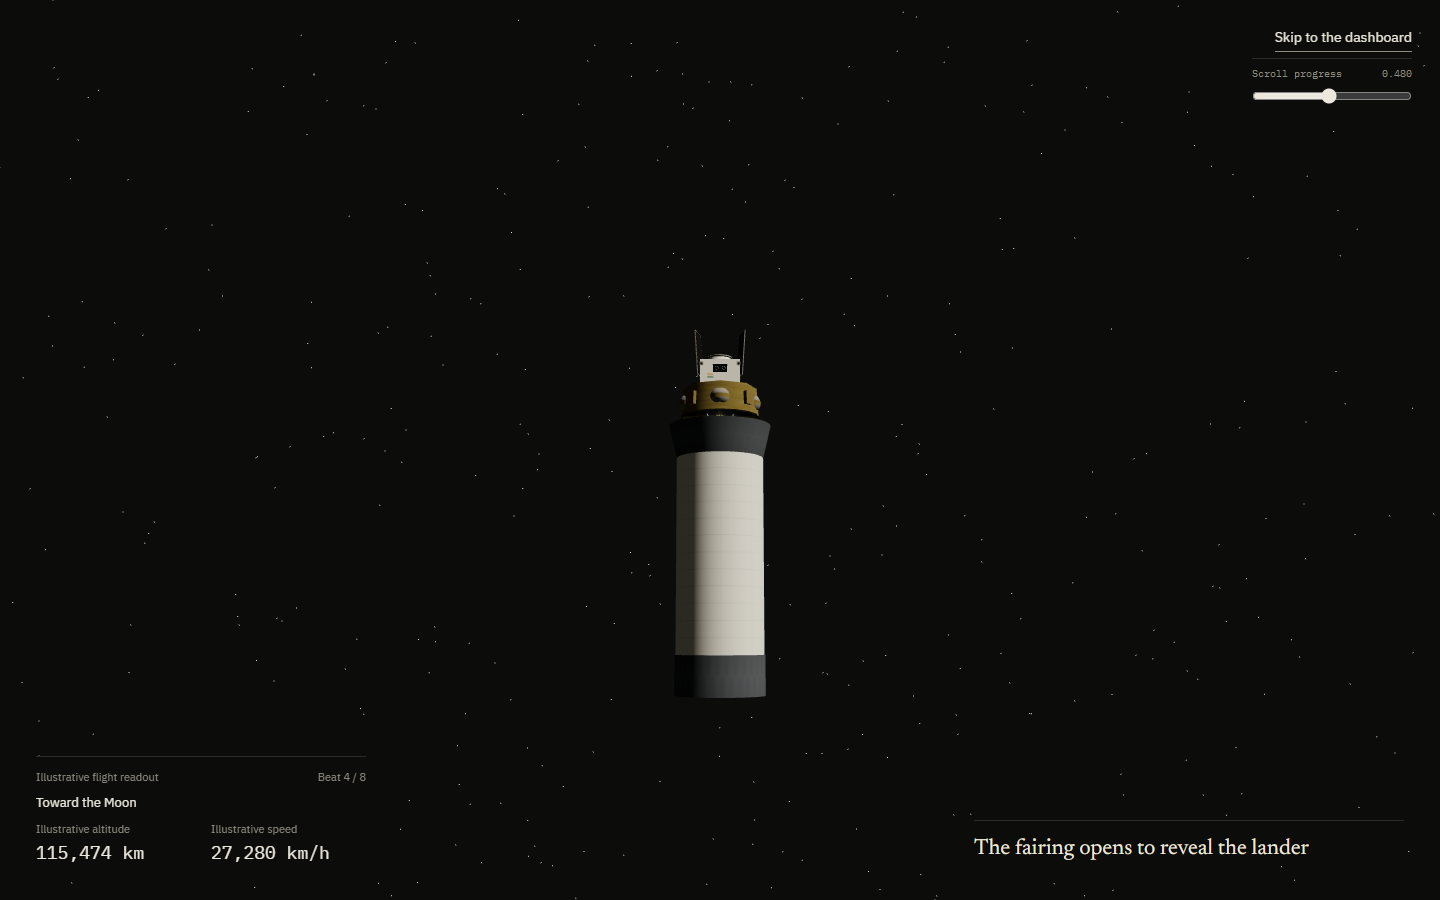
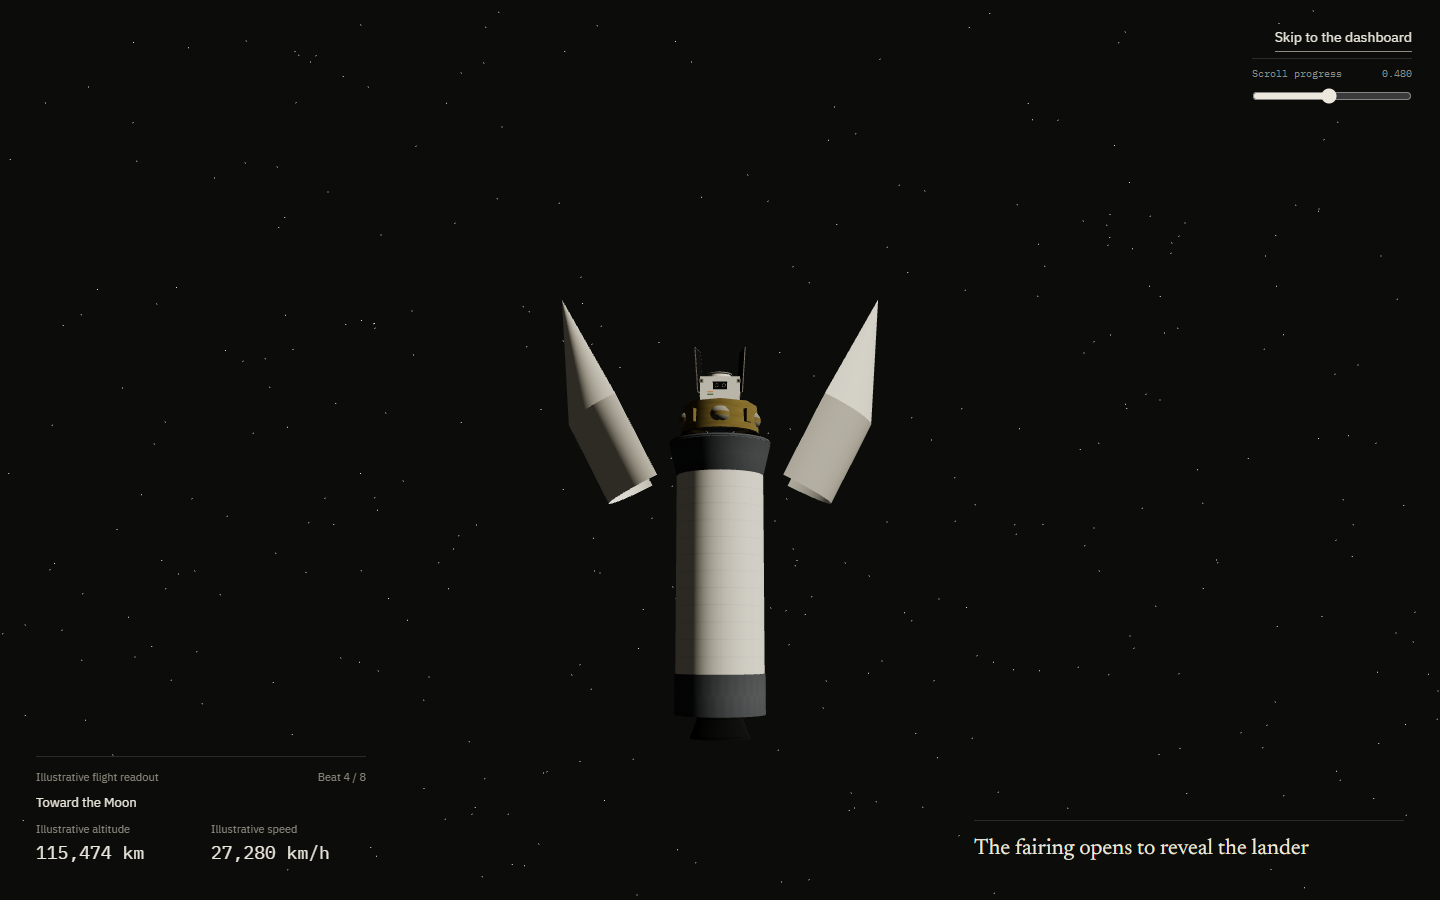
Fix payload fairing clamshell separation, elevate lander adapter stowage, and add upper stage vacuum engine bell

Changed region(s): [[0.375, 0.3422, 0.625, 0.56], [0.4688, 0.7156, 0.5312, 0.8089]]

diff --git a/src/scene/models/RocketModel.ts b/src/scene/models/RocketModel.ts
@@ -47,13 +47,14 @@ export class RocketModel {
   public readonly adapterHeight = 1.2;
   public readonly fairingHeight = 7.5;
   public readonly fairingRadius = 1.85;
+  public readonly landerMountOffset = 1.0;
 
   public get totalHeight(): number {
     return this.boosterHeight + this.interstageHeight + this.upperStageHeight + this.adapterHeight + this.fairingHeight;
   }
 
   public get stackLanderOffset(): number {
-    return this.boosterHeight + this.interstageHeight + this.upperStageHeight + this.adapterHeight + 0.3;
+    return this.boosterHeight + this.interstageHeight + this.upperStageHeight + this.adapterHeight + this.landerMountOffset;
   }
 
   constructor(landerInstance: LanderModel) {
@@ -230,7 +231,9 @@ export class RocketModel {
       this.boosterRadius,
       this.boosterRadius,
       this.interstageHeight,
-      36
+      36,
+      1,
+      true // openEnded hollow interstage skirt
     );
     const interMesh = new THREE.Mesh(interGeo, interstageMat);
     interMesh.position.y = this.interstageHeight / 2;
@@ -254,11 +257,60 @@ export class RocketModel {
     upperMesh.position.y = this.upperStageHeight / 2;
     this.upperStage.add(upperMesh);
 
-    // High-expansion vacuum engine nozzle inside interstage
-    const vacNozzleGeo = new THREE.ConeGeometry(0.9, 1.8, 24, 1, true);
-    const vacNozzle = new THREE.Mesh(vacNozzleGeo, engineMetalMat);
-    vacNozzle.position.y = -0.5;
-    this.upperStage.add(vacNozzle);
+    // Dark metallic vacuum engine assembly
+    const vacNozzleMat = new THREE.MeshStandardMaterial({
+      color: 0x1c1f24,
+      roughness: 0.35,
+      metalness: 0.88,
+      side: THREE.DoubleSide
+    });
+    const throatMat = new THREE.MeshStandardMaterial({
+      color: 0xd97706,
+      emissive: 0x7c2d12,
+      emissiveIntensity: 0.75,
+      roughness: 0.35,
+      metalness: 0.5
+    });
+    const coolingRingMat = new THREE.MeshStandardMaterial({
+      color: 0x4a505b,
+      roughness: 0.28,
+      metalness: 0.92
+    });
+
+    const vacEngineGroup = new THREE.Group();
+    vacEngineGroup.name = 'UpperStageVacuumEngine';
+
+    // Powerhead / Gimbal Ring Assembly
+    const gimbalGeo = new THREE.CylinderGeometry(0.55, 0.58, 0.35, 24);
+    const gimbalMesh = new THREE.Mesh(gimbalGeo, engineMetalMat);
+    gimbalMesh.position.y = -0.22;
+    vacEngineGroup.add(gimbalMesh);
+
+    // High-expansion vacuum engine nozzle bell
+    // Extends down from -0.4 to -2.2 (exit diameter 2.1, extends 0.8 units below interstage skirt at y = -1.4)
+    const vacBellHeight = 1.8;
+    const vacBellGeo = new THREE.CylinderGeometry(0.38, 1.05, vacBellHeight, 32, 1, true);
+    const vacBell = new THREE.Mesh(vacBellGeo, vacNozzleMat);
+    vacBell.position.y = -0.4 - vacBellHeight / 2; // -1.30
+    vacEngineGroup.add(vacBell);
+
+    // Glowing warm combustion throat insert
+    const throatGeo = new THREE.CylinderGeometry(0.24, 0.36, 0.42, 24);
+    const throatMesh = new THREE.Mesh(throatGeo, throatMat);
+    throatMesh.position.y = -0.42;
+    vacEngineGroup.add(throatMesh);
+
+    // 3 Exterior horizontal stiffening / cooling rings around outer bell
+    const ringRadii = [0.62, 0.82, 1.02];
+    const ringYs = [-0.95, -1.50, -2.12];
+    for (let r = 0; r < 3; r++) {
+      const ringGeo = new THREE.CylinderGeometry(ringRadii[r] + 0.03, ringRadii[r] + 0.03, 0.05, 32, 1, true);
+      const ringMesh = new THREE.Mesh(ringGeo, coolingRingMat);
+      ringMesh.position.y = ringYs[r];
+      vacEngineGroup.add(ringMesh);
+    }
+
+    this.upperStage.add(vacEngineGroup);
 
     // Upper Stage Vacuum Plume (Bluer/cyan LH2-LOX / Methane flame)
     const upperFlameMat = new THREE.MeshBasicMaterial({
@@ -266,14 +318,14 @@ export class RocketModel {
       transparent: true,
       opacity: 0.92
     });
-    this.upperPlume = new THREE.Mesh(new THREE.ConeGeometry(1.2, 3.8, 16), upperFlameMat);
+    this.upperPlume = new THREE.Mesh(new THREE.ConeGeometry(1.25, 4.0, 16), upperFlameMat);
     this.upperPlume.rotation.x = Math.PI;
-    this.upperPlume.position.y = -2.2;
+    this.upperPlume.position.y = -4.2;
     this.upperPlume.visible = false;
     this.upperStage.add(this.upperPlume);
 
     this.upperLight = new THREE.PointLight(0x38bdf8, 0, 40, 1.8);
-    this.upperLight.position.set(0, -1.8, 0);
+    this.upperLight.position.set(0, -2.2, 0);
     this.upperStage.add(this.upperLight);
 
     // ==========================================
@@ -295,43 +347,97 @@ export class RocketModel {
     adapterMesh.position.y = this.adapterHeight / 2;
     this.payloadAdapter.add(adapterMesh);
 
+    // Upper deck mounting ring plate
+    const adapterDeckGeo = new THREE.CylinderGeometry(this.fairingRadius * 0.98, this.fairingRadius, 0.12, 36);
+    const adapterDeck = new THREE.Mesh(adapterDeckGeo, interstageMat);
+    adapterDeck.position.y = this.adapterHeight;
+    this.payloadAdapter.add(adapterDeck);
+
+    // Payload separation clamp ring
+    const clampRingGeo = new THREE.CylinderGeometry(1.42, 1.48, 0.14, 36, 1, true);
+    const clampRingMat = new THREE.MeshStandardMaterial({ color: 0x22262d, roughness: 0.45, metalness: 0.8 });
+    const clampRing = new THREE.Mesh(clampRingGeo, clampRingMat);
+    clampRing.position.y = this.adapterHeight + 0.07;
+    this.payloadAdapter.add(clampRing);
+
     // ==========================================
     // 5. LANDER (STOWED CHILD OF PAYLOAD ADAPTER)
     // ==========================================
     // Nested inside the payload adapter from frame 0!
-    // Offset so lander sits securely atop the adapter deck
-    this.lander.group.position.set(0, this.adapterHeight + 0.3, 0);
+    // Offset so lander sits securely atop the adapter deck cleanly above the adapter ring
+    this.lander.group.position.set(0, this.adapterHeight + this.landerMountOffset, 0);
     this.lander.group.scale.set(1.0, 1.0, 1.0);
     this.payloadAdapter.add(this.lander.group);
 
     // ==========================================
-    // 6. PAYLOAD FAIRINGS (LEFT & RIGHT)
+    // 6. PAYLOAD FAIRINGS (LEFT & RIGHT CLAMSHELL)
     // ==========================================
-    // Tangent Ogive Curve:
-    // r(y) = R * sqrt(max(0, 1 - (y / H)^1.8))
-    const fairingPoints: THREE.Vector2[] = [];
-    const segments = 24;
-    for (let i = 0; i <= segments; i++) {
-      const t = i / segments;
-      const y = t * this.fairingHeight;
-      const r = this.fairingRadius * Math.sqrt(Math.max(0.02, 1 - Math.pow(t, 1.75)));
-      fairingPoints.push(new THREE.Vector2(r, y));
-    }
+    const barrelHeight = 3.2;
+    const coneHeight = this.fairingHeight - barrelHeight; // 4.3
 
-    const fairingLeftGeo = new THREE.LatheGeometry(fairingPoints, 24, 0, Math.PI);
-    const fairingRightGeo = new THREE.LatheGeometry(fairingPoints, 24, Math.PI, Math.PI);
+    // Left Clamshell Half (-X half: thetaStart = Math.PI, thetaLength = Math.PI)
+    const cylLeftGeo = new THREE.CylinderGeometry(
+      this.fairingRadius,
+      this.fairingRadius,
+      barrelHeight,
+      36,
+      1,
+      true,
+      Math.PI,
+      Math.PI
+    );
+    cylLeftGeo.translate(0, barrelHeight / 2, 0);
+
+    const coneLeftGeo = new THREE.ConeGeometry(
+      this.fairingRadius,
+      coneHeight,
+      36,
+      1,
+      true,
+      Math.PI,
+      Math.PI
+    );
+    coneLeftGeo.translate(0, barrelHeight + coneHeight / 2, 0);
 
     this.fairingLeft = new THREE.Group();
     this.fairingLeft.name = 'FairingLeft';
-    const fairingLeftMesh = new THREE.Mesh(fairingLeftGeo, fairingMat);
-    this.fairingLeft.add(fairingLeftMesh);
+    const fairingLeftCyl = new THREE.Mesh(cylLeftGeo, fairingMat);
+    const fairingLeftCone = new THREE.Mesh(coneLeftGeo, fairingMat);
+    this.fairingLeft.add(fairingLeftCyl);
+    this.fairingLeft.add(fairingLeftCone);
     this.fairingLeft.position.set(0, this.adapterHeight, 0);
     this.payloadAdapter.add(this.fairingLeft);
 
+    // Right Clamshell Half (+X half: thetaStart = 0, thetaLength = Math.PI)
+    const cylRightGeo = new THREE.CylinderGeometry(
+      this.fairingRadius,
+      this.fairingRadius,
+      barrelHeight,
+      36,
+      1,
+      true,
+      0,
+      Math.PI
+    );
+    cylRightGeo.translate(0, barrelHeight / 2, 0);
+
+    const coneRightGeo = new THREE.ConeGeometry(
+      this.fairingRadius,
+      coneHeight,
+      36,
+      1,
+      true,
+      0,
+      Math.PI
+    );
+    coneRightGeo.translate(0, barrelHeight + coneHeight / 2, 0);
+
     this.fairingRight = new THREE.Group();
     this.fairingRight.name = 'FairingRight';
-    const fairingRightMesh = new THREE.Mesh(fairingRightGeo, fairingMat);
-    this.fairingRight.add(fairingRightMesh);
+    const fairingRightCyl = new THREE.Mesh(cylRightGeo, fairingMat);
+    const fairingRightCone = new THREE.Mesh(coneRightGeo, fairingMat);
+    this.fairingRight.add(fairingRightCyl);
+    this.fairingRight.add(fairingRightCone);
     this.fairingRight.position.set(0, this.adapterHeight, 0);
     this.payloadAdapter.add(this.fairingRight);
 
@@ -445,26 +551,27 @@ export class RocketModel {
         this.sceneRoot.attach(this.fairingRight);
         this.isFairingDetached = true;
       }
-      const tFairing = (p - 0.45) / 0.15;
-      const lateralSpread = tFairing * 9.5;
-      const fairingDrop = tFairing * tFairing * 22.0;
-      const pitchOut = tFairing * 1.2;
+      const tFairing = (p - 0.45) / 0.10;
+      const lateralSpread = tFairing * 5.5 + tFairing * tFairing * 8.0;
+      const fairingDrop = tFairing * 1.5 + tFairing * tFairing * 10.0;
+      const hingeAngle = Math.min(1.4, tFairing * 1.6);
+      const tumble = tFairing * 0.35;
+
+      const fairingMountY = craftWorldPos.y + this.boosterHeight + this.interstageHeight + this.upperStageHeight + this.adapterHeight;
 
       this.fairingLeft.position.set(
         craftWorldPos.x - lateralSpread,
-        craftWorldPos.y + (this.upperStageHeight * 0.4) - fairingDrop,
+        fairingMountY - fairingDrop,
         craftWorldPos.z
       );
-      this.fairingLeft.rotation.z = pitchOut;
-      this.fairingLeft.rotation.y = tFairing * 0.5;
+      this.fairingLeft.rotation.set(tumble * 0.4, tumble, hingeAngle);
 
       this.fairingRight.position.set(
         craftWorldPos.x + lateralSpread,
-        craftWorldPos.y + (this.upperStageHeight * 0.4) - fairingDrop,
+        fairingMountY - fairingDrop,
         craftWorldPos.z
       );
-      this.fairingRight.rotation.z = -pitchOut;
-      this.fairingRight.rotation.y = -tFairing * 0.5;
+      this.fairingRight.rotation.set(tumble * 0.4, -tumble, -hingeAngle);
     }
 
     // ----------------------------------------------------
@@ -473,7 +580,7 @@ export class RocketModel {
     if (p < 0.55) {
       if (this.isLanderReleased) {
         this.payloadAdapter.add(this.lander.group);
-        this.lander.group.position.set(0, this.adapterHeight + 0.3, 0);
+        this.lander.group.position.set(0, this.adapterHeight + this.landerMountOffset, 0);
         this.lander.group.rotation.set(0, 0, 0);
         this.lander.group.scale.set(1, 1, 1);
         this.isLanderReleased = false;

diff --git a/src/scene/kinematics/flightKinematics.ts b/src/scene/kinematics/flightKinematics.ts
@@ -15,6 +15,8 @@ export interface RocketDimensions {
   stackLanderOffset: number; // Height from rocket base to lander mounting deck
 }
 
+export const LANDER_MOUNT_OFFSET = 1.0;
+
 export const ROCKET_DIMS: RocketDimensions = {
   boosterHeight: 16.0,
   boosterRadius: 1.6,
@@ -24,7 +26,7 @@ export const ROCKET_DIMS: RocketDimensions = {
   fairingHeight: 7.5,
   fairingRadius: 1.85,
   totalHeight: 16.0 + 1.4 + 7.0 + 1.2 + 7.5, // 33.1 units
-  stackLanderOffset: 16.0 + 1.4 + 7.0 + 1.2 + 0.3 // 25.9 units
+  stackLanderOffset: 16.0 + 1.4 + 7.0 + 1.2 + LANDER_MOUNT_OFFSET // 26.6 units
 };
 
 // Pure math helper functions
@@ -243,24 +245,25 @@ export function computeCraftState(
     fairingRightPos.set(craftRigX, fairingMountY, craftRigZ);
     fairingRightRot.set(0, 0, 0);
   } else {
-    const tFairing = (p - 0.45) / 0.15;
-    const lateralSpread = tFairing * 10.5;
-    const fairingDrop = tFairing * tFairing * 24.0;
-    const pitchOut = tFairing * 1.25;
+    const tFairing = (p - 0.45) / 0.10;
+    const lateralSpread = tFairing * 5.5 + tFairing * tFairing * 8.0;
+    const fairingDrop = tFairing * 1.5 + tFairing * tFairing * 10.0;
+    const hingeAngle = Math.min(1.4, tFairing * 1.6);
+    const tumble = tFairing * 0.35;
 
     fairingLeftPos.set(
       craftRigX - lateralSpread,
       fairingMountY - fairingDrop,
       craftRigZ
     );
-    fairingLeftRot.set(0, tFairing * 0.5, pitchOut);
+    fairingLeftRot.set(tumble * 0.4, tumble, hingeAngle);
 
     fairingRightPos.set(
       craftRigX + lateralSpread,
       fairingMountY - fairingDrop,
       craftRigZ
     );
-    fairingRightRot.set(0, -tFairing * 0.5, -pitchOut);
+    fairingRightRot.set(tumble * 0.4, -tumble, -hingeAngle);
   }
 
   // -------------------------------------------------------------------------

diff --git a/src/scene/__tests__/sceneContinuity.test.ts b/src/scene/__tests__/sceneContinuity.test.ts
@@ -73,7 +73,7 @@ class HeadlessSceneRig {
       if (this.lander.group.parent !== this.rocket.payloadAdapter) {
         this.rocket.payloadAdapter.add(this.lander.group);
       }
-      this.lander.group.position.set(0, this.rocket.adapterHeight + 0.3, 0);
+      this.lander.group.position.set(0, this.rocket.adapterHeight + this.rocket.landerMountOffset, 0);
       this.lander.group.rotation.set(0, 0, 0);
       this.lander.group.scale.set(1.0, 1.0, 1.0);
     }
@@ -92,10 +92,10 @@ describe('Scene Graph Continuity & Kinematics Tests', () => {
     const rig = new HeadlessSceneRig();
     const step = 0.002;
     let prevPos: THREE.Vector3 | null = null;
-    // Theoretical max derivative of smoothstep curve over translunar transfer (dist 40.71 over dp 0.07)
-    // is (40.71 / 0.07) * 1.5 * 0.002 = 1.745 units per 0.002 step.
-    // Set threshold to 1.76 to prove C1 continuity (vs old 25.9 defect jump which is 15x higher)
-    const maxThreshold = 1.76;
+    // Theoretical max derivative of smoothstep curve over translunar transfer (dist 41.38 over dp 0.07)
+    // is (41.38 / 0.07) * 1.5 * 0.002 = 1.773 units per 0.002 step.
+    // Set threshold to 1.80 to prove C1 continuity (vs old 25.9 defect jump which is 15x higher)
+    const maxThreshold = 1.80;
 
     for (let p = 0; p <= 1.0; p += step) {
       rig.evaluateProgress(p);
